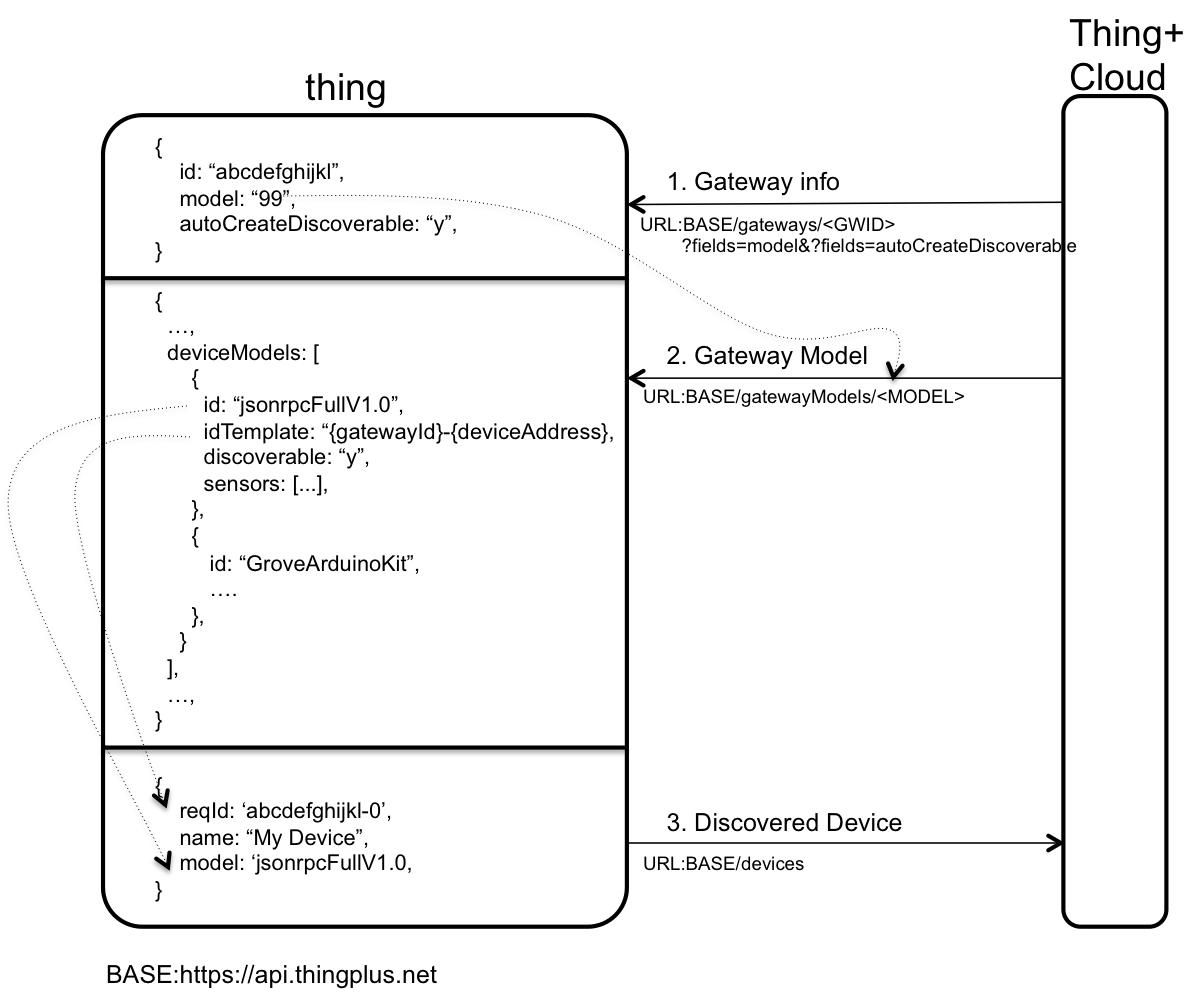
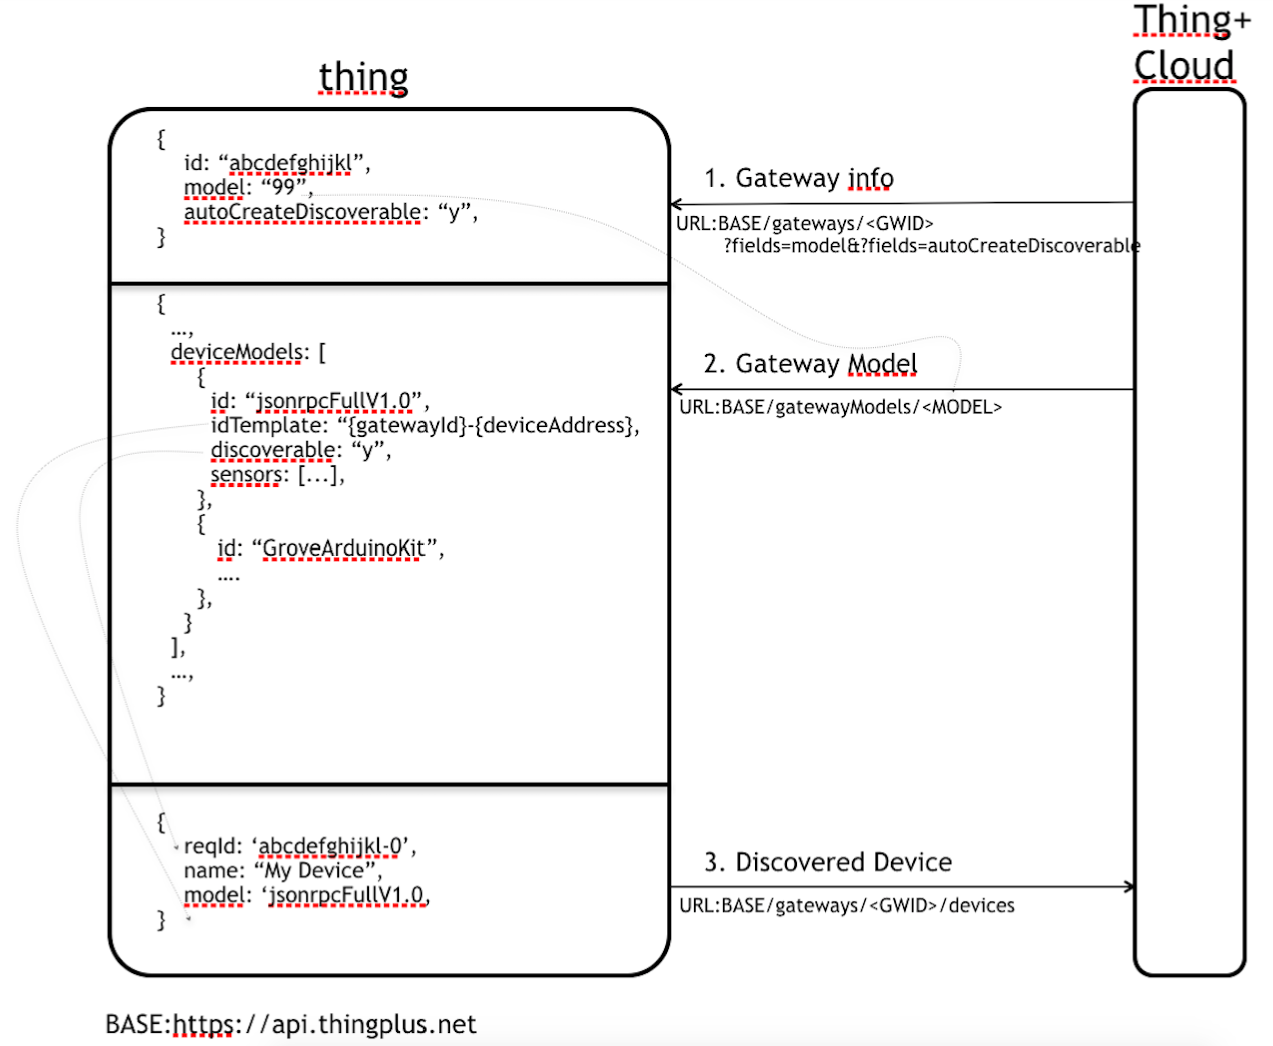
guild 문서 오류 수정

diff --git a/docs/Thingplus_Embedded_Guide.md b/docs/Thingplus_Embedded_Guide.md
@@ -803,7 +803,7 @@ Thing+에서 정의한 센서 드라이버를 가지고 오는 API입니다.
 #### 2.3.7 디바이스 등록하기
 
 #### Resource URL
-`POST https://api.thingplus.net/devices`
+`POST https://api.thingplus.net/gateways/<GATEWAY_ID>/devices`
 
 #### Post Parameters
 
